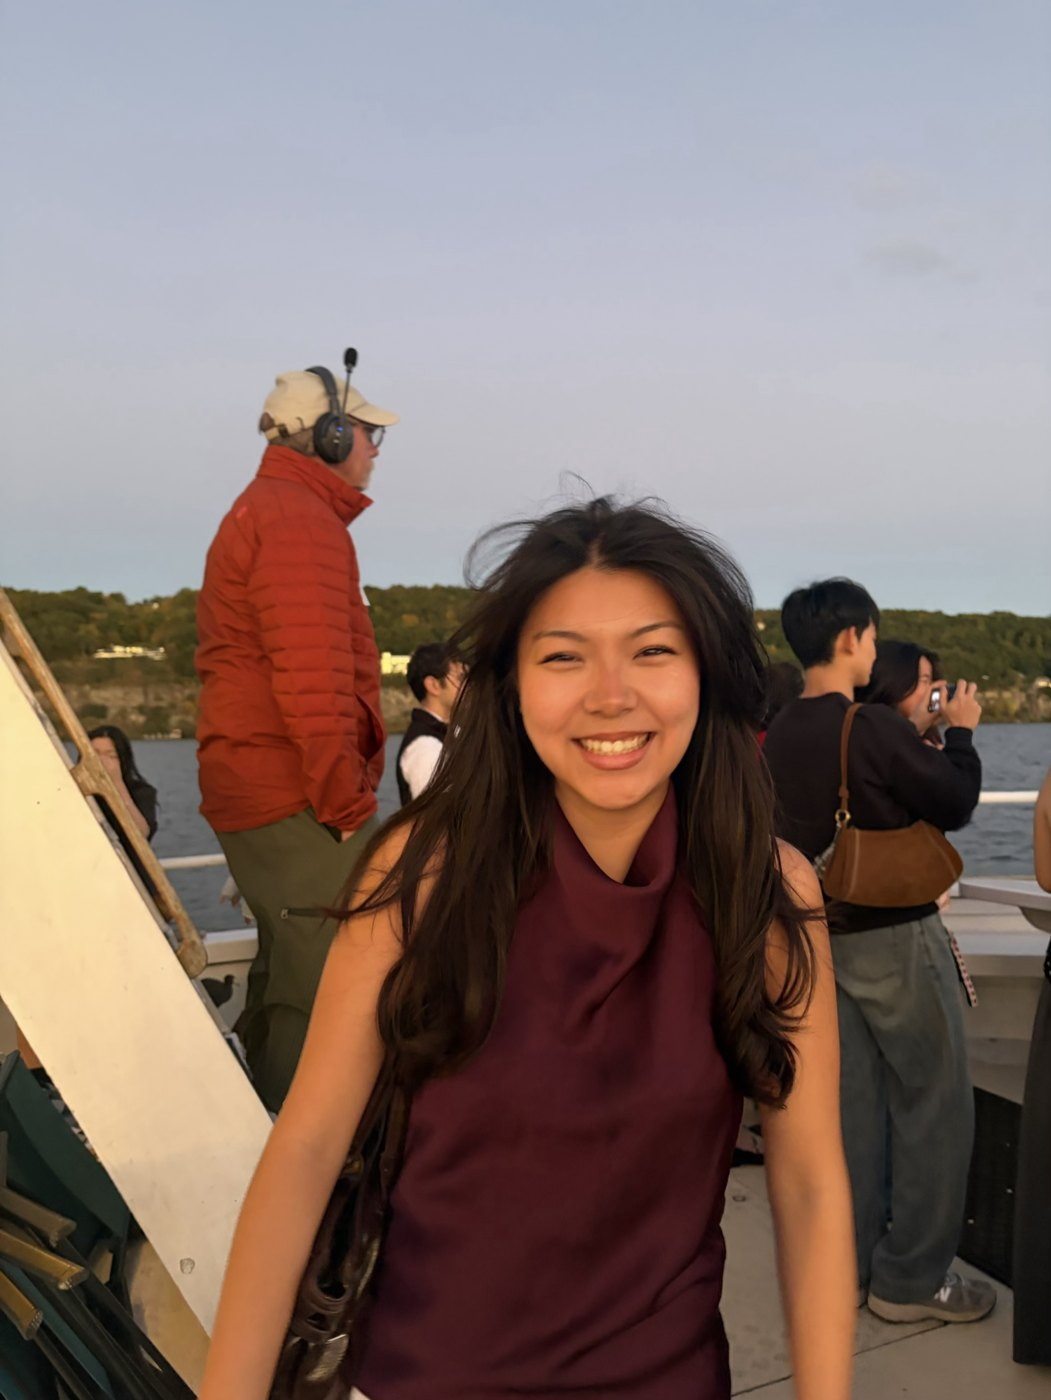
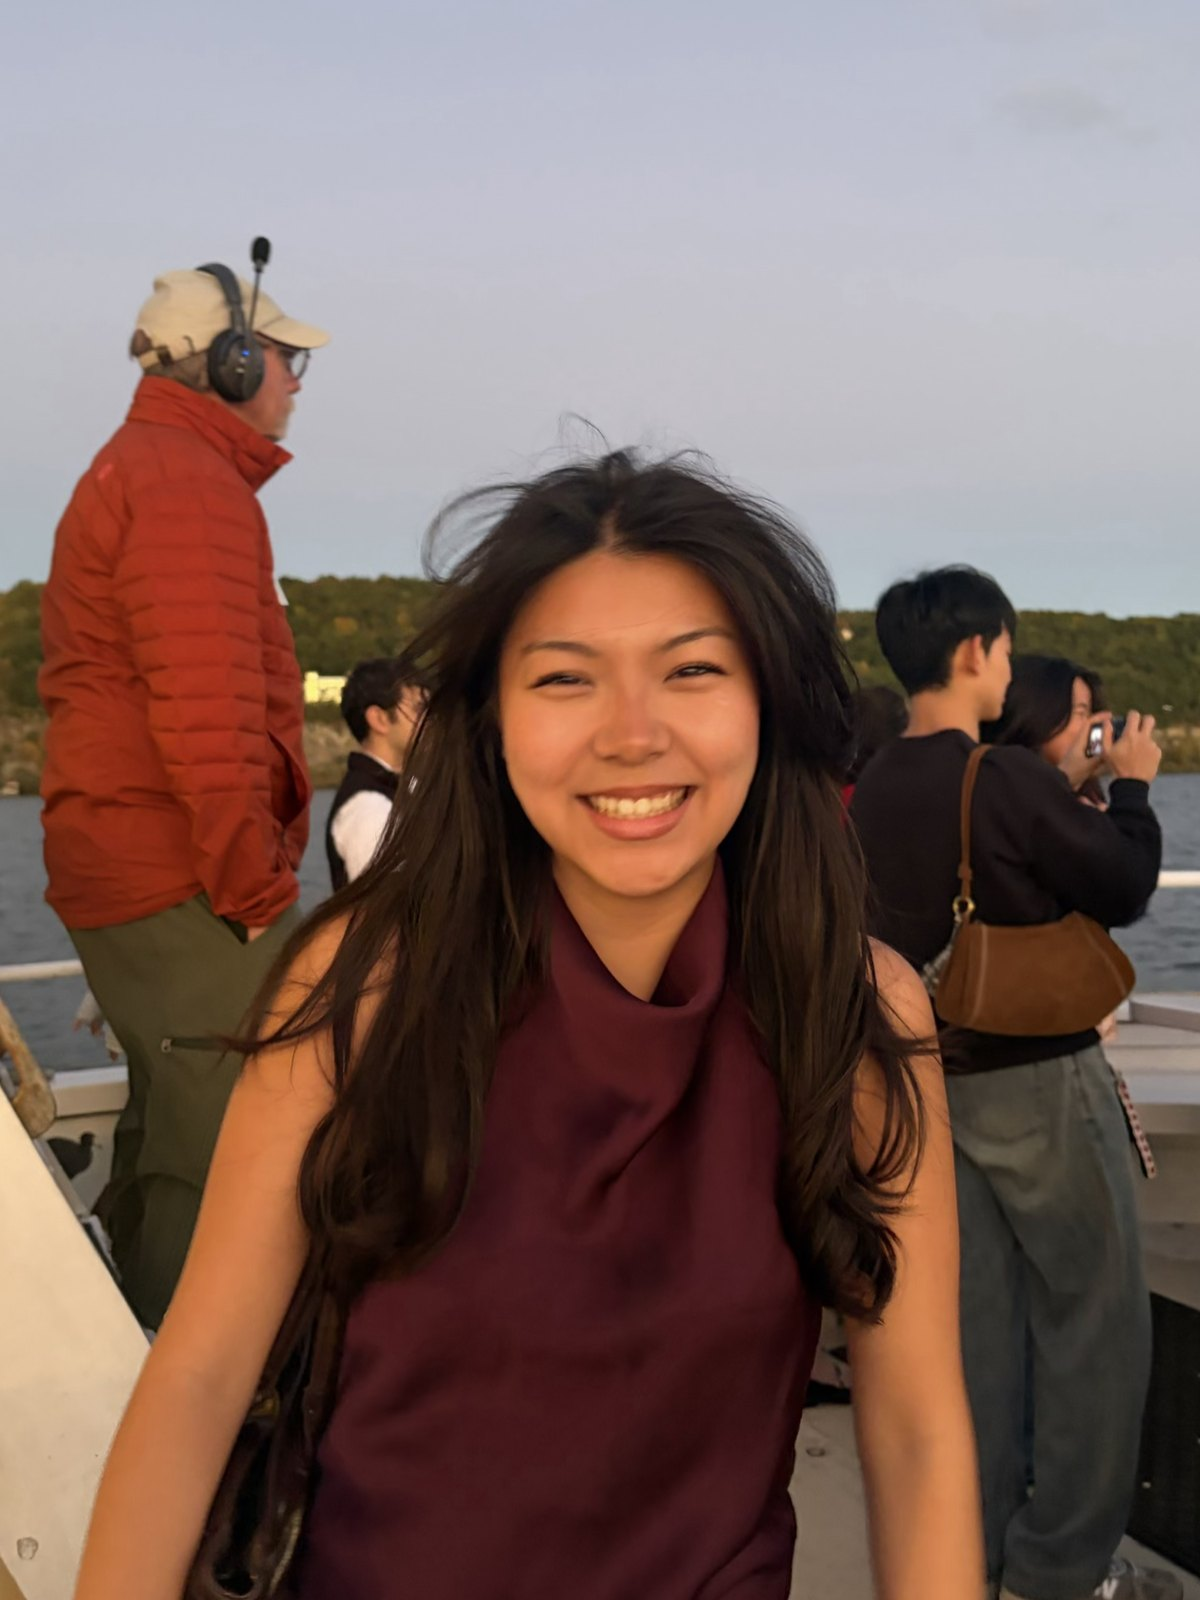
About: zoom selfie in slightly
Claude-Session: https://claude.ai/code/session_01UHrP7f3T6PvekE7nxDfNFQ

diff --git a/index.html b/index.html
@@ -8,13 +8,13 @@
 <link rel="preconnect" href="https://fonts.googleapis.com">
 <link rel="preconnect" href="https://fonts.gstatic.com" crossorigin>
 <link rel="stylesheet" href="https://fonts.googleapis.com/css2?family=Archivo:wdth,wght@62..125,700..800&family=Bricolage+Grotesque:opsz,wdth,wght@12..96,75..100,400..800&family=Instrument+Sans:wght@400;500;600&family=Instrument+Serif:ital@1&family=Syne:wght@700..800&family=Archivo+Narrow:wght@500;600;700&display=swap">
-<link rel="stylesheet" href="css/style.css?v=202611152225">
+<link rel="stylesheet" href="css/style.css?v=202611152227">
 </head>
 <body>
 <div id="app"></div>
-<script>window.SITE_VERSION = "202611152225";</script>
-<script src="content/site.js?v=202611152225"></script>
-<script src="js/glyphs.js?v=202611152225"></script>
-<script src="js/app.js?v=202611152225"></script>
+<script>window.SITE_VERSION = "202611152227";</script>
+<script src="content/site.js?v=202611152227"></script>
+<script src="js/glyphs.js?v=202611152227"></script>
+<script src="js/app.js?v=202611152227"></script>
 </body>
 </html>

diff --git a/content/site.js b/content/site.js
@@ -27,7 +27,7 @@ window.SITE = {
     "[2–4 sentences about you. What draws you to product design, what you like to make with your hands vs. on screen, and what kind of team you want to learn from.]",
   // Photo collage beside "Hi, I'm Michelle" on the About page. Empty src = placeholder box.
   portrait: [
-    { src: "assets/about/selfie.jpg", ratio: "1051/1400", label: "Selfie" },
+    { src: "assets/about/selfie.jpg", ratio: "3/4", label: "Selfie" },
     { src: "assets/about/friends/alps.jpg", ratio: "3/4", label: "In the Alps" },
     { src: "assets/about/friends/festival.jpg", ratio: "1024/768", label: "Peace sign" }
   ],
